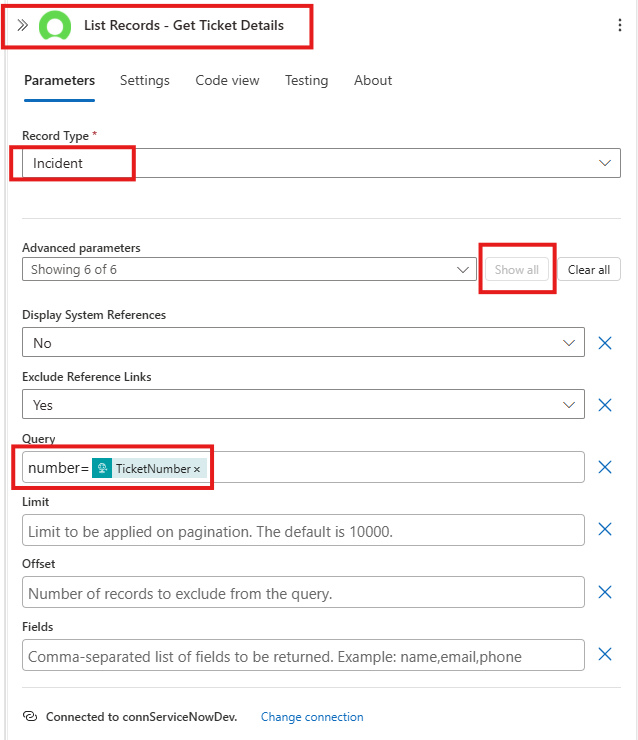
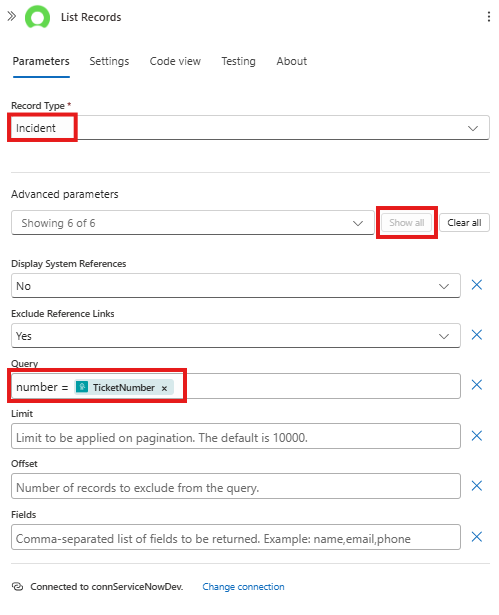
activity 10:  - updated screenshots with new UI and activity naming - updated configuration for actions to leave default naming

Changed region(s): [[0.0, 0.3089, 0.992, 0.9886], [0.0, 0.0, 0.992, 0.2472], [0.5411, 0.0927, 0.6313, 0.1236]]

diff --git a/docs/logic-apps-agent-in-a-day/10_create_tool_servicenow_update_incident.md b/docs/logic-apps-agent-in-a-day/10_create_tool_servicenow_update_incident.md
@@ -34,7 +34,7 @@ In this module we will create a stateful workflow to update an existing ServiceN
 
     ![Create Stateful Workflow](./images/10_04_create_new_stateful_workflow.png "create new stateful workflow")
 
-1. Open the workflow visual editor by clicking on the `tool-ServiceNow-UpdateIncident` link
+1. Open the workflow visual editor by clicking on the `tool-ServiceNow-UpdateIncident` link (if the workflow isn't automatically opened after the create completes)
 
     ![Open Workflow](./images/10_05_open_workflow.png "Open Workflow" )
 
@@ -92,7 +92,6 @@ In this module we will create a stateful workflow to update an existing ServiceN
         ![ServiceNow Update Activity](./images/10_11_search_action_sevicenow_update_activity.png "servicenow update activity")
 
 1. Configure the **Update Record** action
-    - Rename activity to `Update Incident Work Notes`
     - **Record Type:** `Incident`
     - **System ID:** *(using the expression (fx) editor)* `first(body('List_Records_-_Get_Ticket_Details')?['result'])['sys_id']`
     - **State:** *(Advanced Parameter)* `2`
